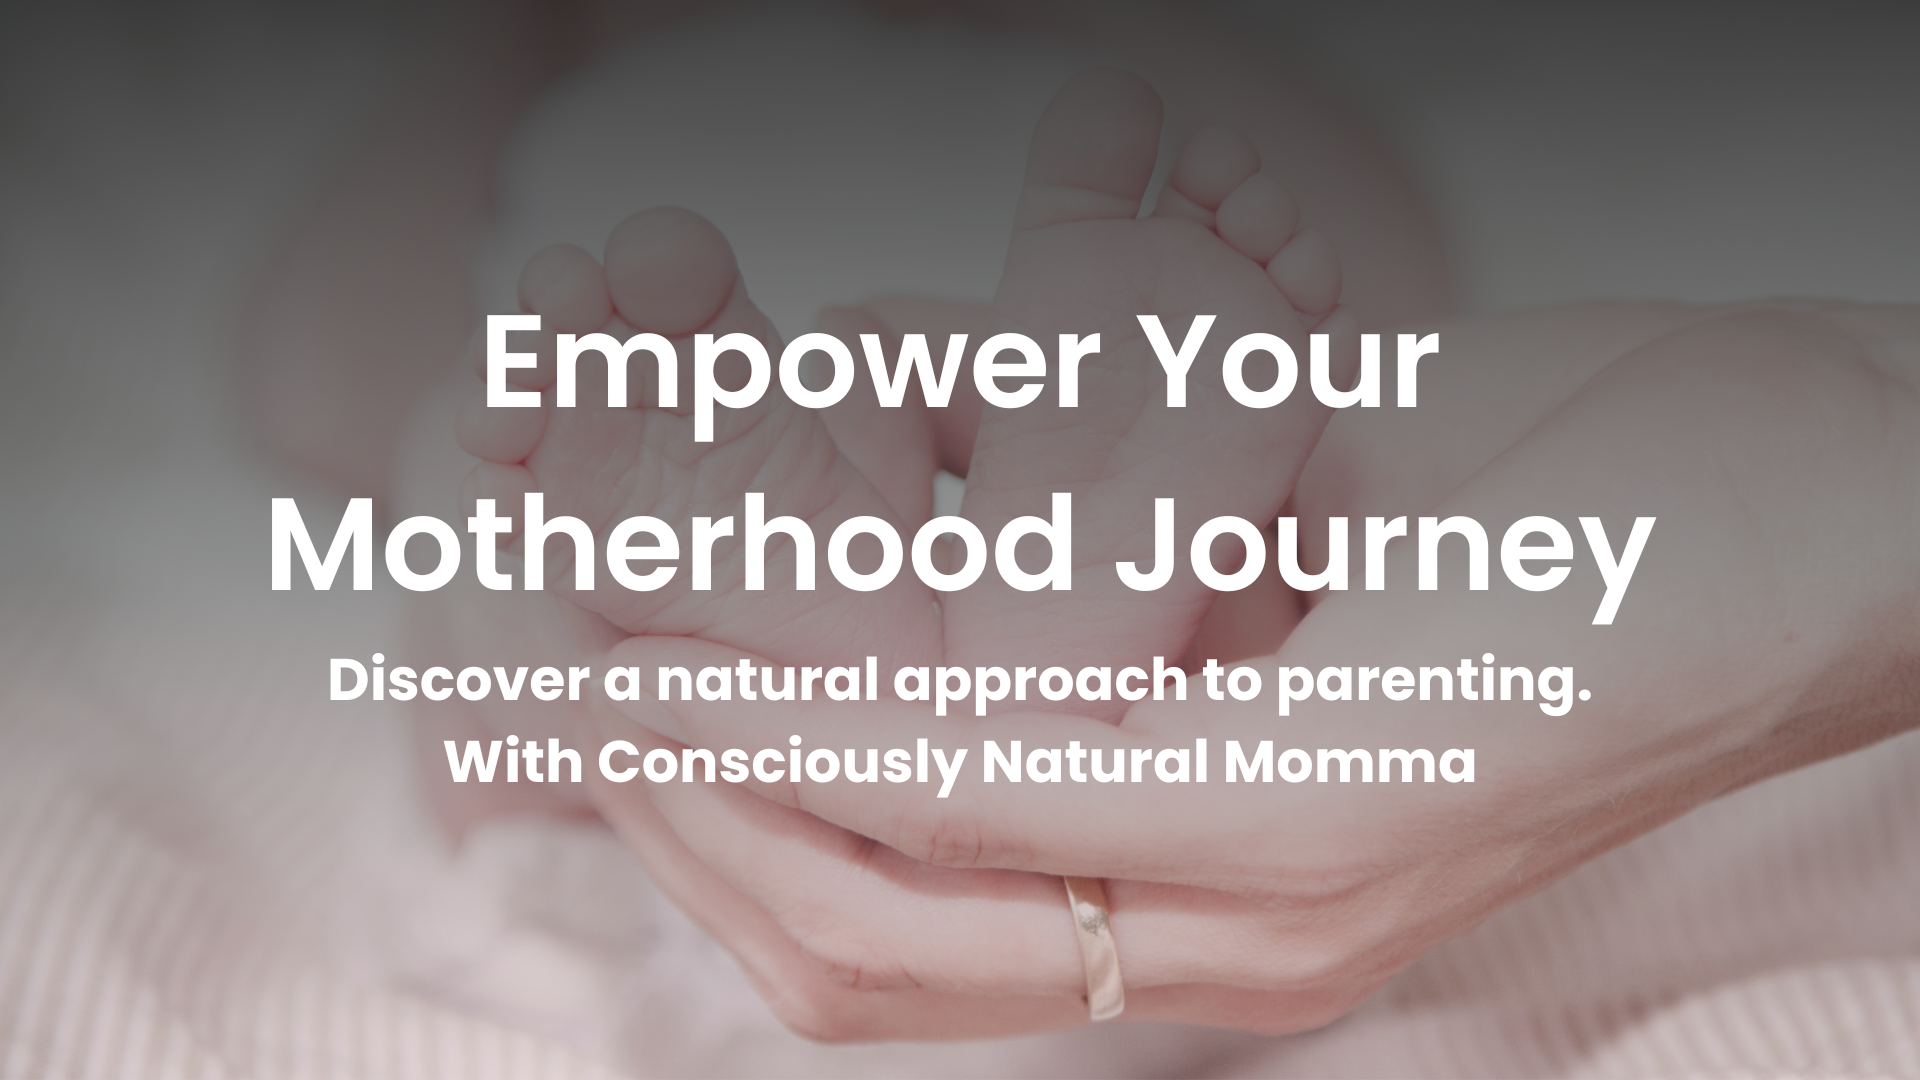
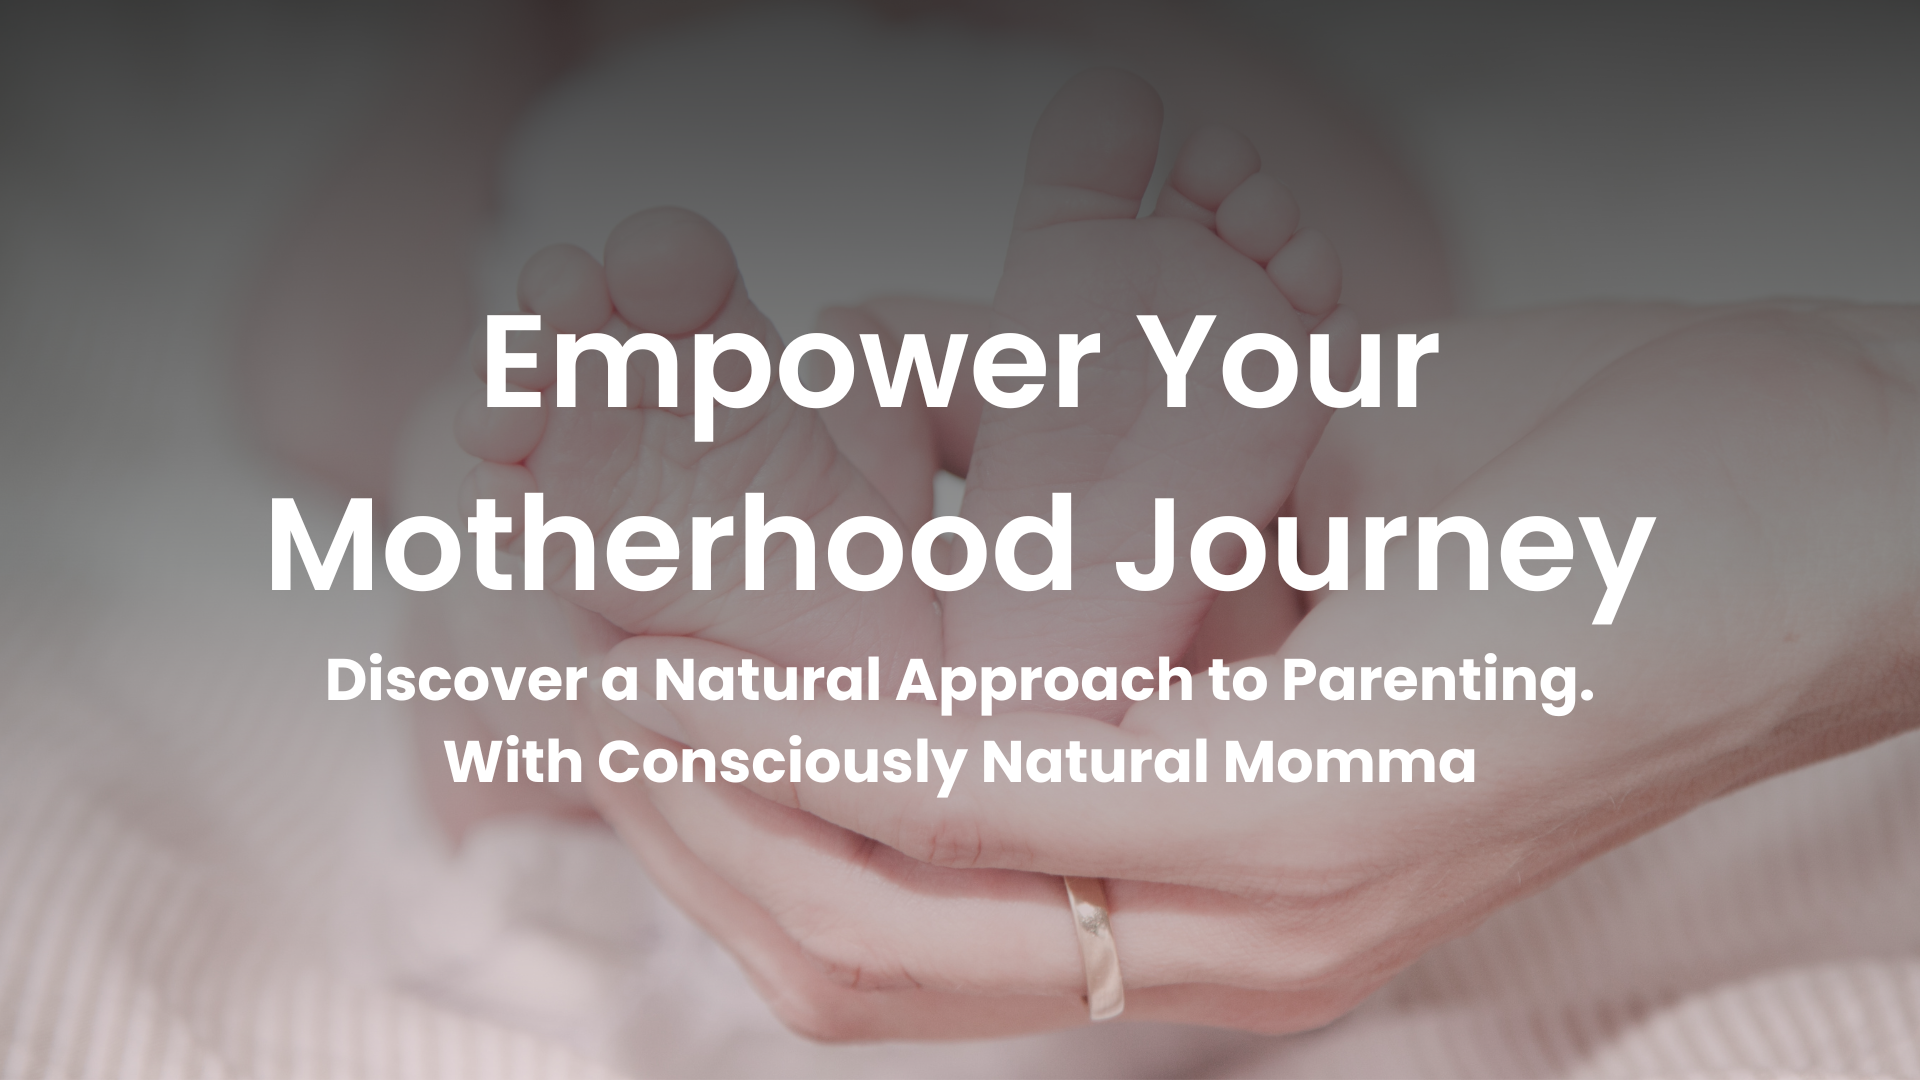
Trying to fix meta image urls again and descriptions

Changed region(s): [[0.1562, 0.6111, 0.8125, 0.6722]]

diff --git a/index.html b/index.html
@@ -7,13 +7,13 @@
 
   <meta charset="utf-8">
   <title>Consciously Natural Momma</title>
-  <meta name="description" content="Discover an Empowering Natural Approach to Motherhood">
+  <meta name="description" content="Empower Your Motherhood Journey, Discover a Natural Approach to Parenting.">
   <meta name="viewport" content="width=device-width, initial-scale=1">
 
  <meta property="og:title" content="Home | Consciously Natural Momma">
  <meta property="og:type" content="website">
  <meta property="og:url" content="http://consciouslynaturalmomma.com/">
- <meta property="og:image" content="/img/about-image.png"> <!--It has to be the file path!-->
+ <meta property="og:image" content="../img/about-image.png"> <!--It has to be the file path!-->
  <meta property="og:image:type" content="image/png" /> 
  <meta property="og:image:width" content="400" /> 
  <meta property="og:image:height" content="300" />
@@ -118,9 +118,8 @@
   
     <div class="hero-area">
   
-      <h1>Empower Your<br>
-         Motherhood Journey</h1>
-      <h3>Discover a natural approach to parenting. <br>With Consciously Natural Momma</h3>
+      <h1>Empower Your <br>Motherhood Journey</h1>
+      <h3>Discover a Natural Approach to Parenting.<br>With Consciously Natural Momma</h3>
   
     </div>
   

diff --git a/privacy-policy/index.html b/privacy-policy/index.html
@@ -6,7 +6,7 @@
   <!--Meta Properties-->
   <meta charset="utf-8">
   <title>Consciously Natural Momma | Privacy Policy</title>
-  <meta name="description" content="Discover an Empowering Natural Approach to Motherhood">
+  <meta name="description" content="Empower Your Motherhood Journey, Discover a Natural Approach to Parenting.">
   <meta name="viewport" content="width=device-width, initial-scale=1">
 
  <meta property="og:title" content="Privacy Policy | Consciously Natural Momma">

diff --git a/disclaimer/index.html b/disclaimer/index.html
@@ -7,7 +7,7 @@
 
     <meta charset="utf-8" />
     <title>Consciously Natural Momma | Disclaimer</title>
-    <meta name="description" content="Discover an Empowering Natural Approach to Motherhood">
+    <meta name="description" content="Empower Your Motherhood Journey, Discover a Natural Approach to Parenting.">
     <meta name="viewport" content="width=device-width, initial-scale=1" />
 
     <meta property="og:title" content="Disclaimer | Consciously Natural Momma">

diff --git a/blog-post-template/index.html b/blog-post-template/index.html
@@ -9,7 +9,7 @@
 
   <meta charset="utf-8">
   <title>Consciously Natural Momma | Blog Post Template</title>
-  <meta name="description" content="Discover an Empowering Natural Approach to Motherhood">
+  <meta name="description" content="Empower Your Motherhood Journey, Discover a Natural Approach to Parenting.">
   <meta name="viewport" content="width=device-width, initial-scale=1">
 
  <meta property="og:title" content="Blog post template | Consciously Natural Momma">

diff --git a/terms/index.html b/terms/index.html
@@ -7,7 +7,7 @@
 
   <meta charset="utf-8">
   <title>Consciously Natural Momma | Terms & Conditions</title>
-  <meta name="description" content="Discover an Empowering Natural Approach to Motherhood">
+  <meta name="description" content="Empower Your Motherhood Journey, Discover a Natural Approach to Parenting.">
   <meta name="viewport" content="width=device-width, initial-scale=1">
 
  <meta property="og:title" content="Terms & Conditions | Consciously Natural Momma">

diff --git a/checklist-landing/index.html b/checklist-landing/index.html
@@ -7,7 +7,7 @@
 
   <meta charset="utf-8">
   <title>Consciously Natural Momma | Free Checklists!</title>
-  <meta name="description" content="Discover an Empowering Natural Approach to Motherhood">
+  <meta name="description" content="Empower Your Motherhood Journey, Discover a Natural Approach to Parenting.">
   <meta name="viewport" content="width=device-width, initial-scale=1">
 
  <meta property="og:title" content="Free Checklists! | Consciously Natural Momma">

diff --git a/chapter-landing/index.html b/chapter-landing/index.html
@@ -7,7 +7,7 @@
 
   <meta charset="utf-8">
   <title>Consciously Natural Momma | Chapter Landing</title>
-  <meta name="description" content="Discover an Empowering Natural Approach to Motherhood">
+  <meta name="description" content="Empower Your Motherhood Journey, Discover a Natural Approach to Parenting.">
   <meta name="viewport" content="width=device-width, initial-scale=1">
 
  <meta property="og:title" content="Chapter Landing | Consciously Natural Momma">

diff --git a/book/index.html b/book/index.html
@@ -7,7 +7,7 @@
 
   <meta charset="utf-8">
   <title>Buy The Book | Consciously Natural Momma </title>
-  <meta name="description" content="Discover an Empowering Natural Approach to Motherhood">
+  <meta name="description" content="Empower Your Motherhood Journey, Discover a Natural Approach to Parenting.">
   <meta name="viewport" content="width=device-width, initial-scale=1">
 
  <meta property="og:title" content="Buy The Book | Consciously Natural Momma">

diff --git a/homemaking/index.html b/homemaking/index.html
@@ -7,7 +7,7 @@
 
   <meta charset="utf-8">
   <title>Homemaking | Consciously Natural Momma</title>
-  <meta name="description" content="Discover an Empowering Natural Approach to Motherhood">
+  <meta name="description" content="Empower Your Motherhood Journey, Discover a Natural Approach to Parenting.">
   <meta name="viewport" content="width=device-width, initial-scale=1">
 
  <meta property="og:title" content="Homemaking | Consciously Natural Momma">

diff --git a/motherhood/index.html b/motherhood/index.html
@@ -7,7 +7,7 @@
 
   <meta charset="utf-8">
   <title>Motherhood | Consciously Natural Momma</title>
-  <meta name="description" content="Discover an Empowering Natural Approach to Motherhood">
+  <meta name="description" content="Empower Your Motherhood Journey, Discover a Natural Approach to Parenting.">
   <meta name="viewport" content="width=device-width, initial-scale=1">
 
  <meta property="og:title" content="Motherhood | Consciously Natural Momma">

diff --git a/blog-category-template/index.html b/blog-category-template/index.html
@@ -7,7 +7,7 @@
   
   <meta charset="utf-8">
   <title>Blog Category Template</title>
-  <meta name="description" content="Discover an Empowering Natural Approach to Motherhood">
+  <meta name="description" content="Empower Your Motherhood Journey, Discover a Natural Approach to Parenting.">
   <meta name="viewport" content="width=device-width, initial-scale=1">
 
  <meta property="og:title" content="Blog Category Template | Consciously Natural Momma">

diff --git a/babyhood/index.html b/babyhood/index.html
@@ -7,7 +7,7 @@
 
   <meta charset="utf-8">
   <title>Babyhood | Consciously Natural Momma</title>
-  <meta name="description" content="Discover an Empowering Natural Approach to Motherhood">
+  <meta name="description" content="Empower Your Motherhood Journey, Discover a Natural Approach to Parenting.">
   <meta name="viewport" content="width=device-width, initial-scale=1">
 
  <meta property="og:title" content="Babyhood | Consciously Natural Momma">
